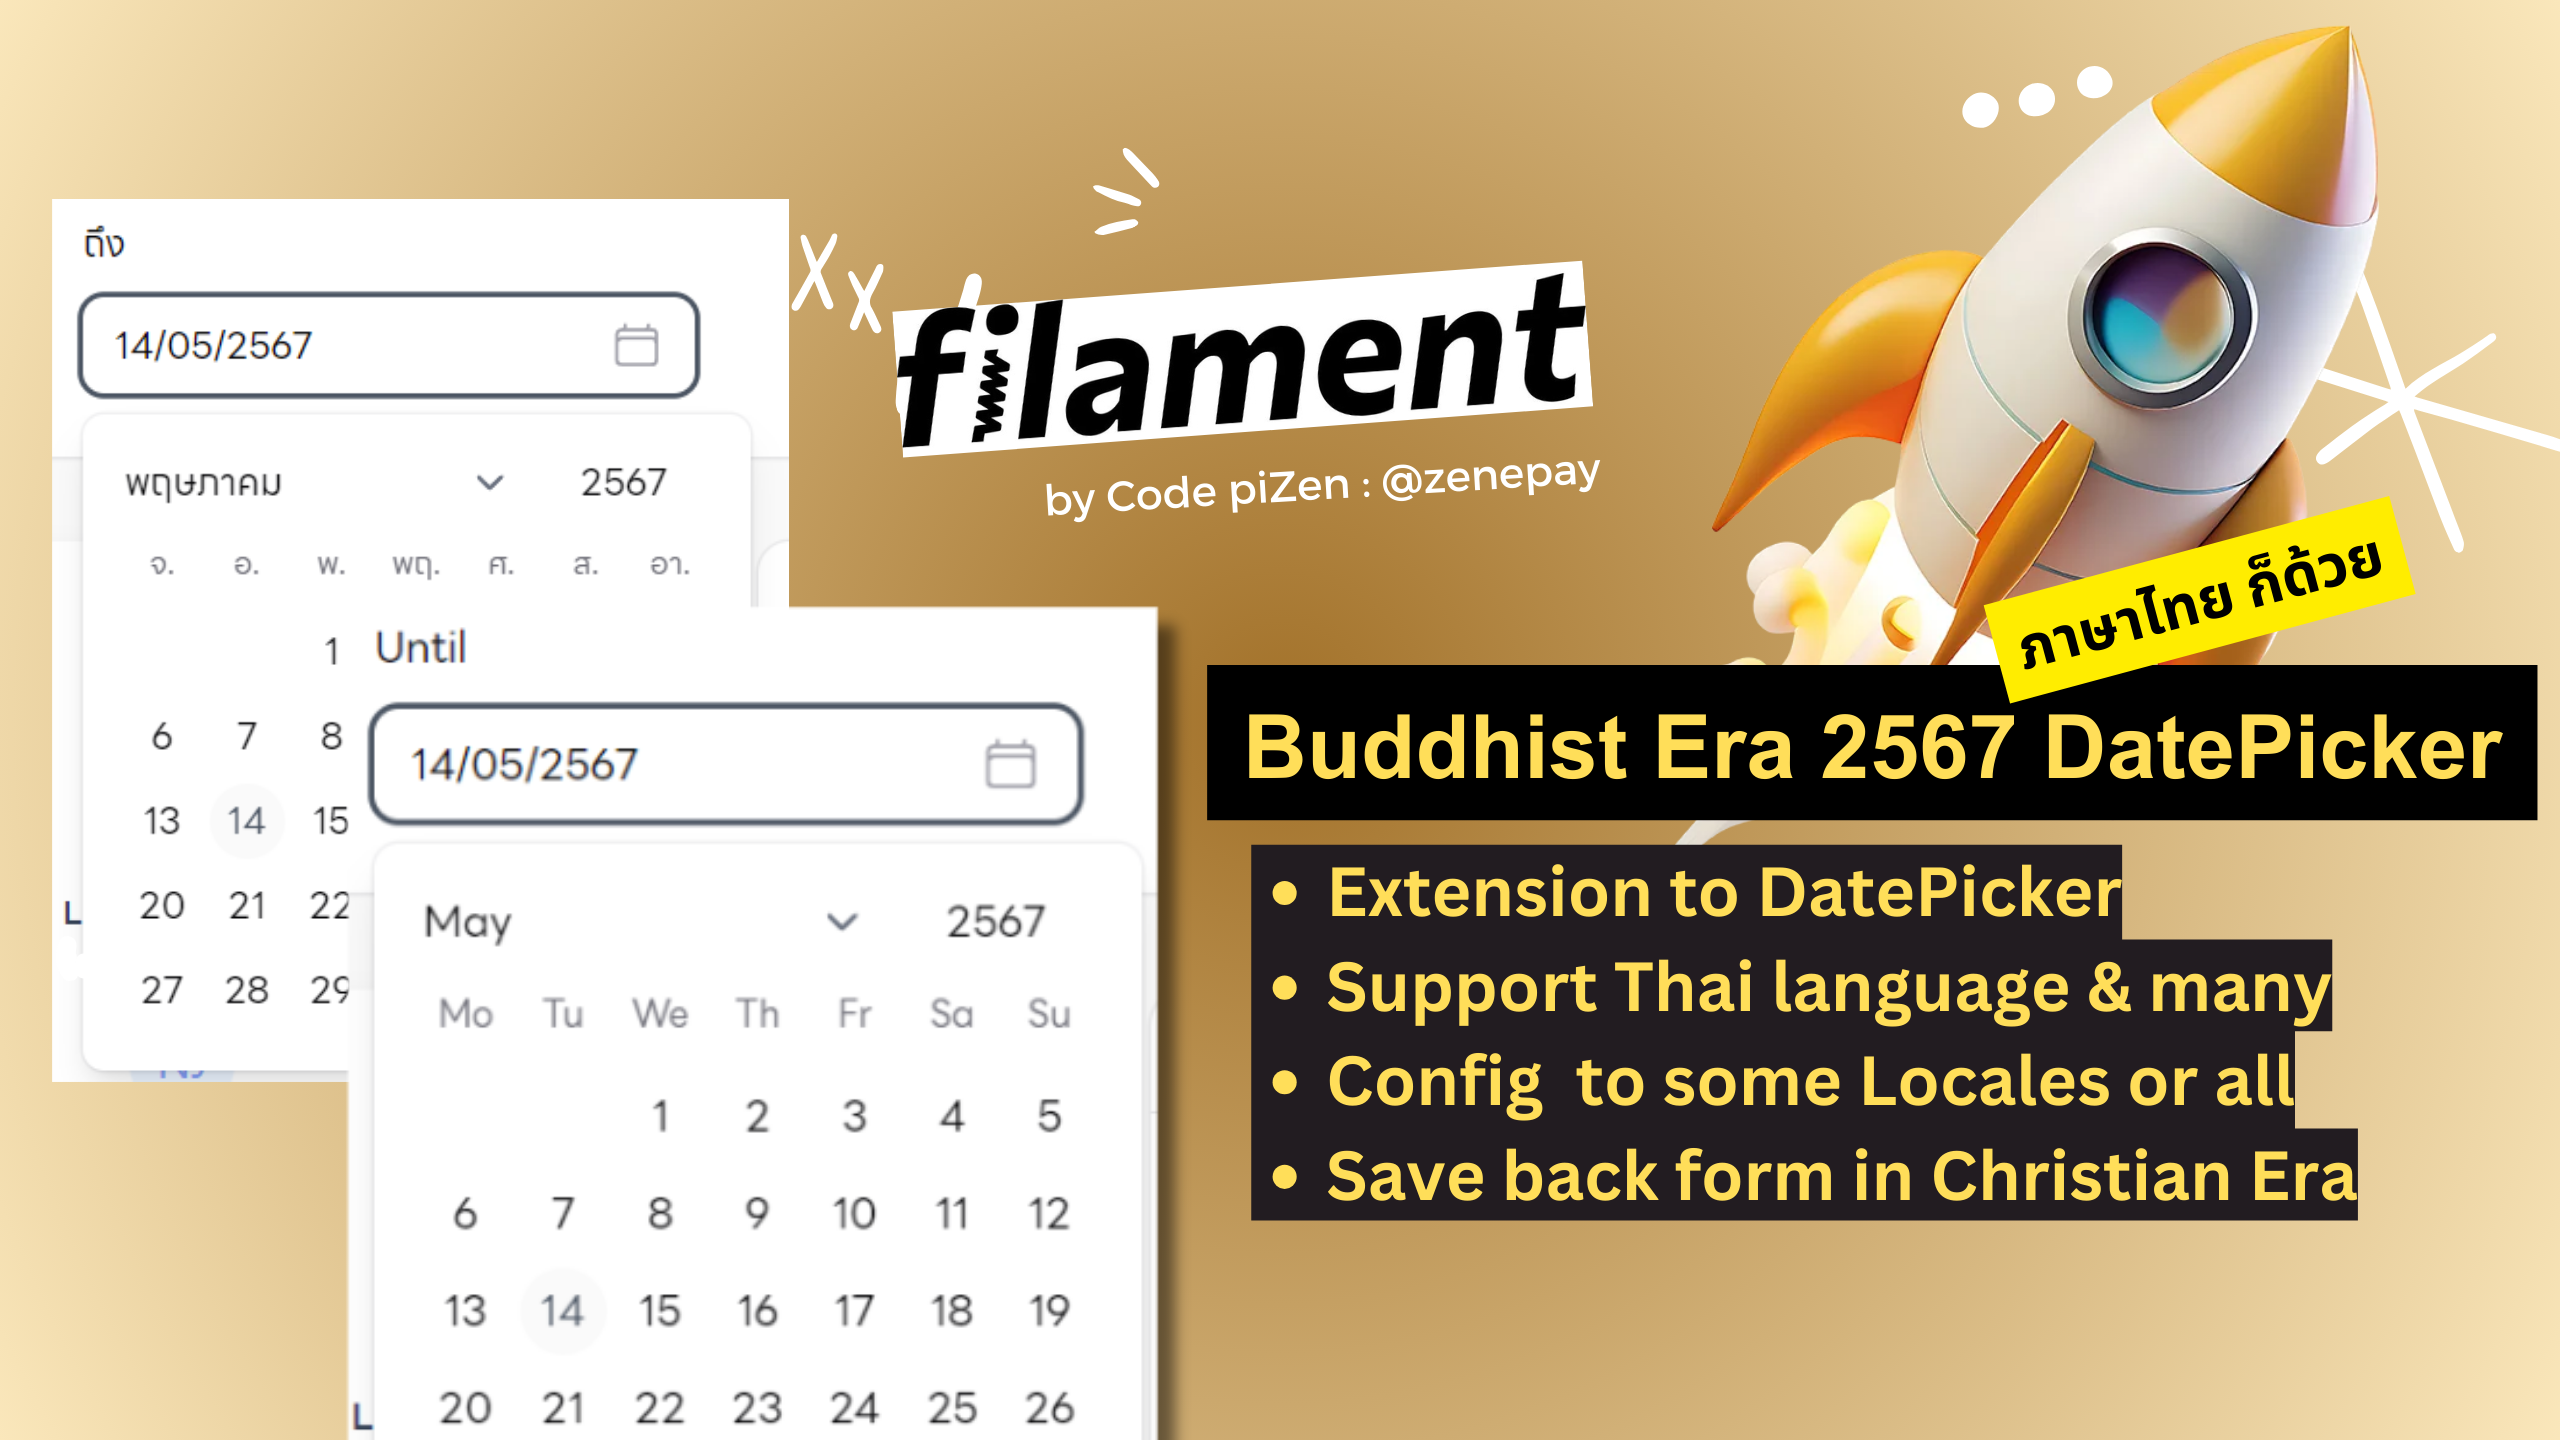
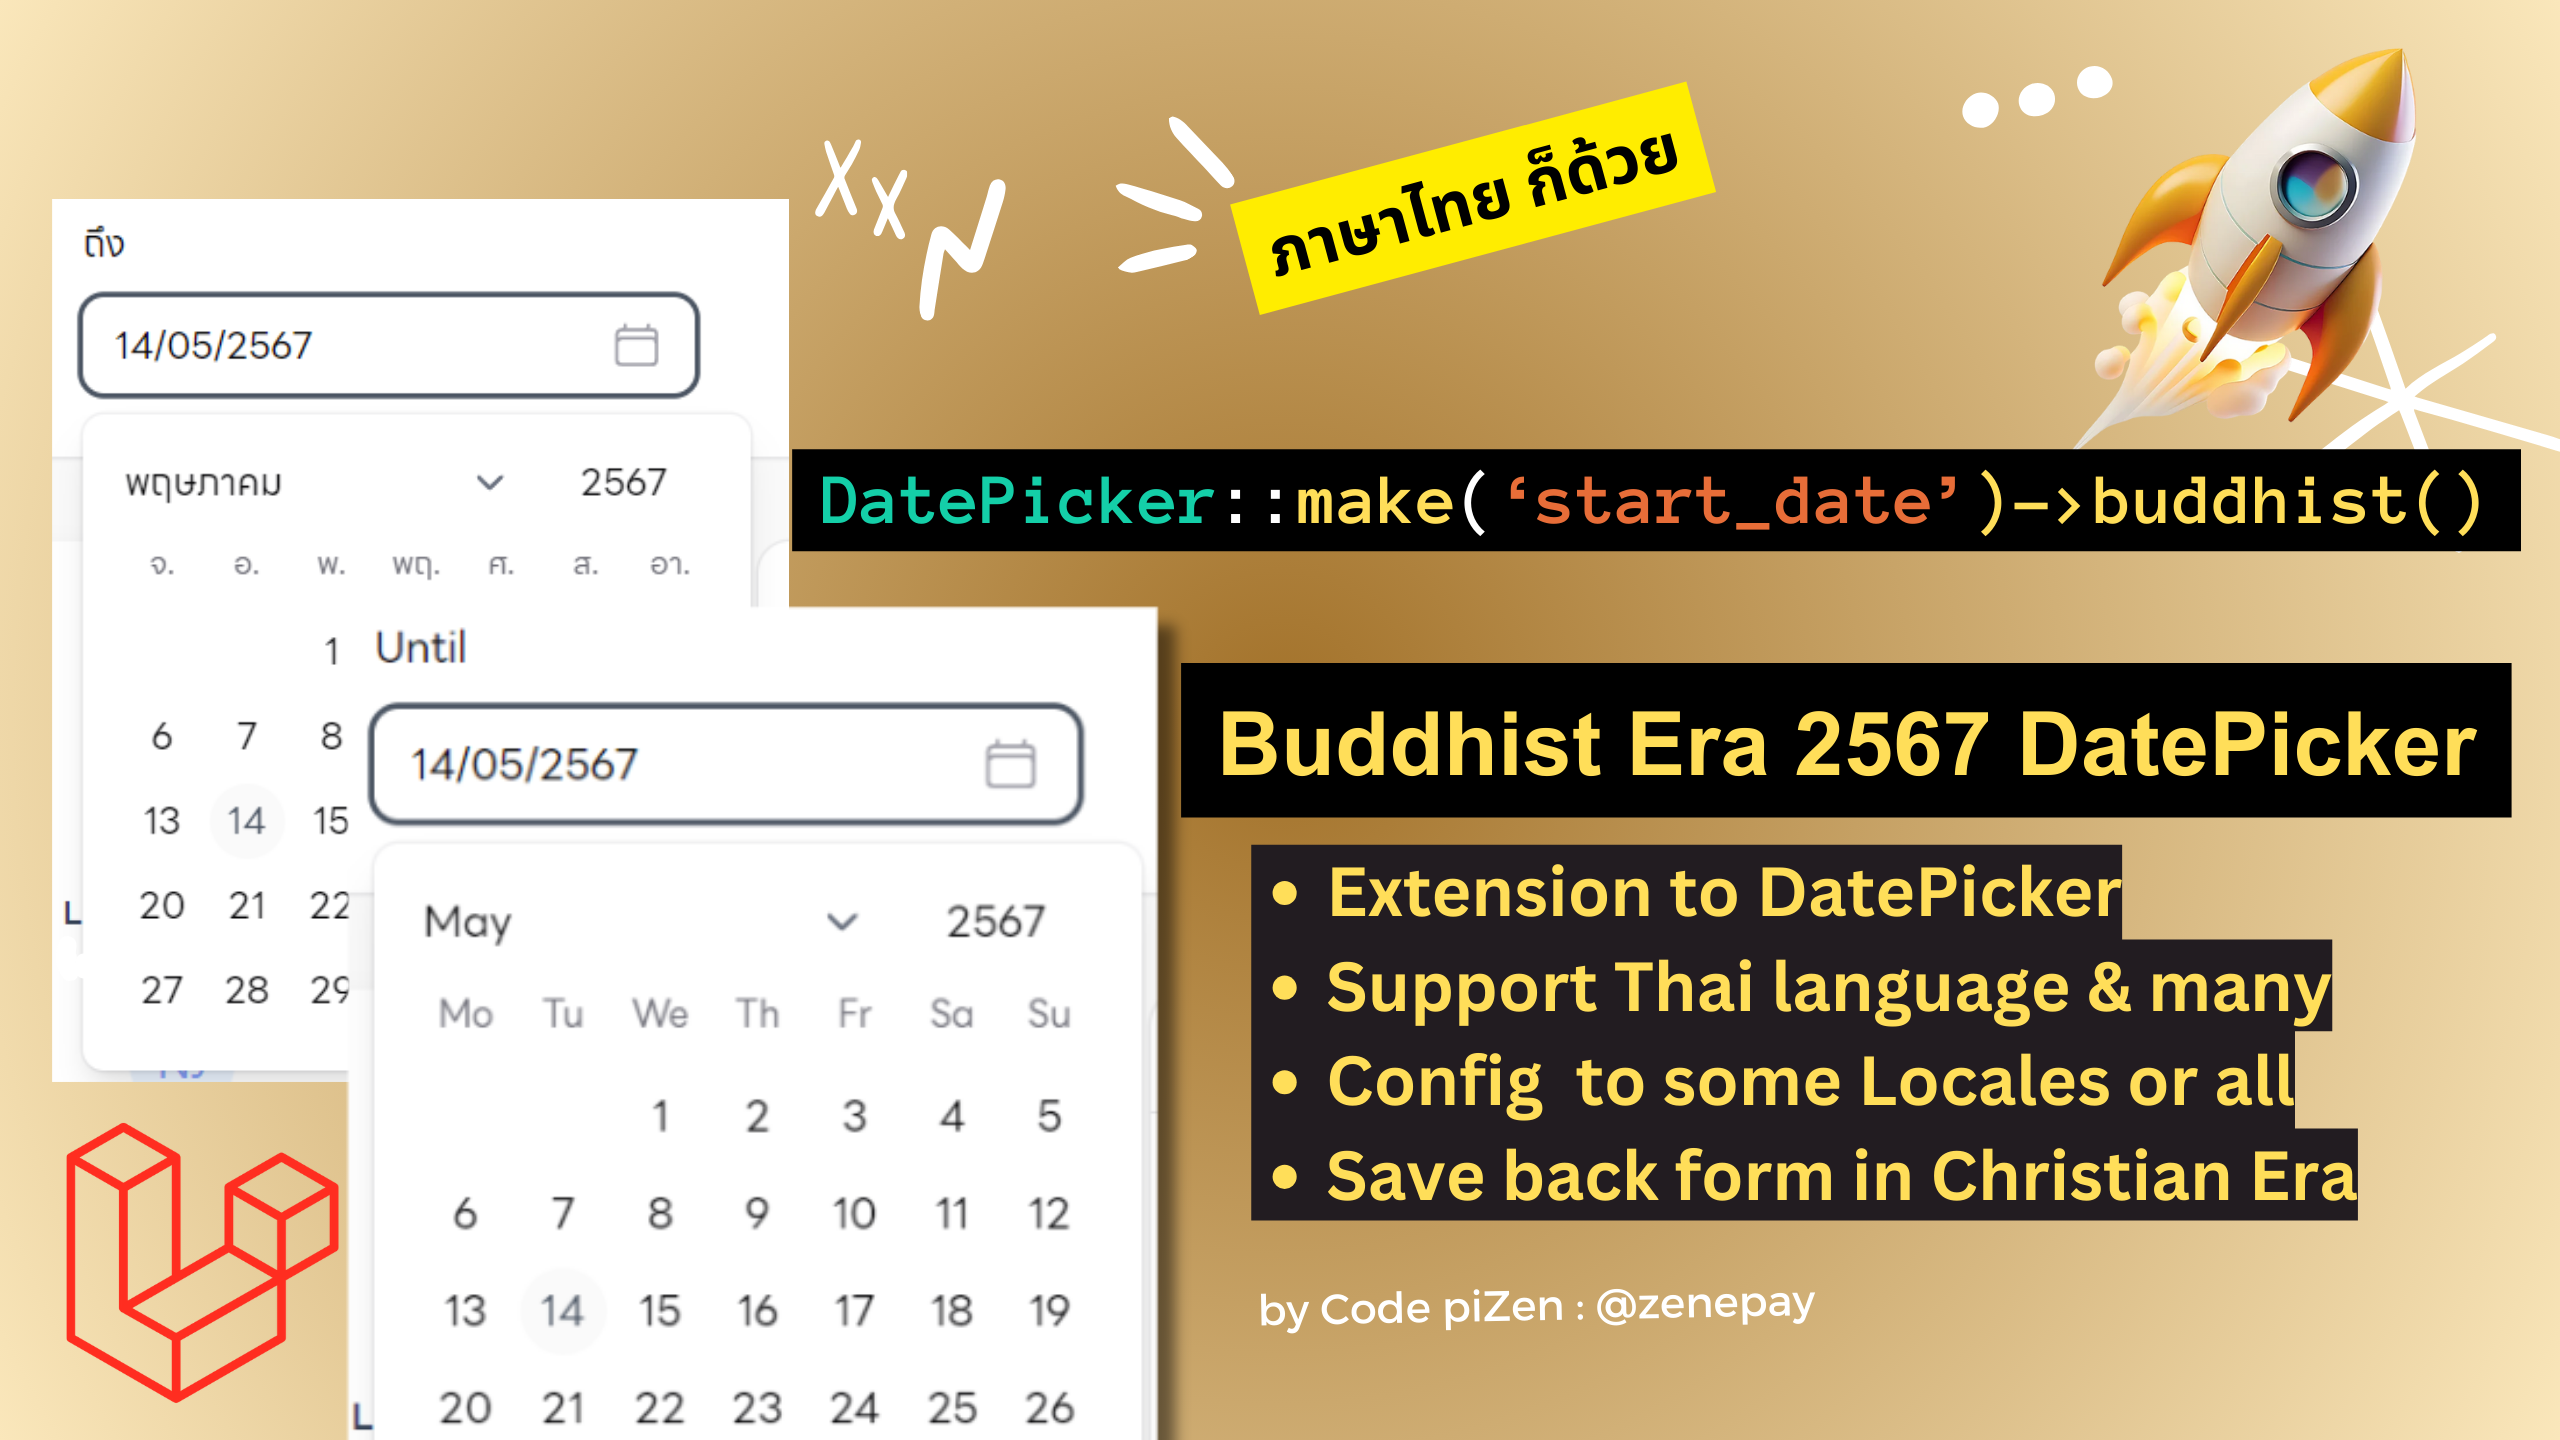
Add default date format for simple use of BuddhistDatePicker class

Changed region(s): [[0.3125, 0.0, 1.0, 0.5938], [0.0, 0.7812, 0.1562, 0.9688], [0.5, 0.875, 0.7188, 0.9375]]

diff --git a/src/BuddhistDatePickerServiceProvider.php b/src/BuddhistDatePickerServiceProvider.php
@@ -15,6 +15,7 @@ class BuddhistDatePickerServiceProvider extends PackageServiceProvider
 
     public static string $viewNamespace = 'filament-buddisht-date-picker';
 
+
     /*
          * This class is a Package Service Provider
          *
@@ -43,6 +44,7 @@ class BuddhistDatePickerServiceProvider extends PackageServiceProvider
         DatePicker::macro('buddhist', function (bool|int|string|array $onlyLocales = [], bool $weekdaysMin = true,) {
             /** @var DatePicker $this */
             $this->native(false);
+            $this::$defaultDateTimeDisplayFormat = 'm/d/Y';
             $this->view = "filament-buddisht-date-picker::date-time-picker";
             $this->extraAttributes(['onlyLocales' => is_array($onlyLocales) ? implode(',', $onlyLocales) : (is_bool($onlyLocales) ? (int) $onlyLocales : $onlyLocales), 'weekdaysMin' => (int) $weekdaysMin]);
 
@@ -52,6 +54,7 @@ class BuddhistDatePickerServiceProvider extends PackageServiceProvider
         DateTimePicker::macro('buddhist', function (bool|int|string|array $onlyLocales = '', bool $weekdaysMin = false,) {
             /** @var DateTimePicker $this */
             $this->native(false);
+            $this::$defaultDateTimeDisplayFormat = 'm/d/Y';
             $this->view = "filament-buddisht-date-picker::date-time-picker";
             $this->extraAttributes(['onlyLocales' => is_array($onlyLocales) ? implode(',', $onlyLocales) : "$onlyLocales", 'weekdaysMin' => (int) $weekdaysMin]);
         });

diff --git a/src/BuddhistDatePicker.php b/src/BuddhistDatePicker.php
@@ -8,8 +8,13 @@ use Filament\Forms\Components\DateTimePicker;
 class BuddhistDatePicker extends DateTimePicker
 {
     protected string $view = 'filament-buddisht-date-picker::date-time-picker';
+
     private bool|string $onlyLocales = true;
+
     private bool $weekdaysMin = true;
+
+    public static string $defaultDateDisplayFormat = 'd/m/Y';
+
     public function hasTime(): bool
     {
         return false;
@@ -23,6 +28,7 @@ class BuddhistDatePicker extends DateTimePicker
             'weekdaysMin' => (int) $this->weekdaysMin,
             'onlyLocales' => (int) $this->onlyLocales
         ], true);
+        $this->suffixIcon('heroicon-o-calendar', isInline: true);
     }
 
     public function onlyLocales(array $onlyLocales = []): static
@@ -35,7 +41,6 @@ class BuddhistDatePicker extends DateTimePicker
     public function weekdaysMin(bool $weekdaysMin = true): static
     {
         $this->weekdaysMin = $weekdaysMin;
-        $onlyLocales = $this->onlyLocales;
         $this->extraAttributes(['weekdaysMin' => (int) $this->weekdaysMin, 'onlyLocales' => $this->onlyLocales], false);
         return $this;
     }

diff --git a/README.md b/README.md
@@ -57,13 +57,25 @@ DatePicker::make('start_at')->buddhist(onlyLocales:['th','en'],weekdaysMin:true)
 DatetimePicker::make('start_at')->buddhist(onlyLocales:['th','en'],weekdaysMin:true);
 ```
 You can also use this way
-```php
-// 
-use Zenepay\FilamentBuddhistDatePicker\BuddhistDatePicker;
-BuddhistDatePicker::make('start_date'),
-// or with options
-BuddhistDatePicker:make('birth_date')->onlyLocales(['th','en'])->weekdaysMin(false),
 
+```php
+use Zenepay\FilamentBuddhistDatePicker\BuddhistDatePicker;
+
+BuddhistDatePicker::make('start_date');
+BuddhistDatePicker::make('birth_date')->onlyLocales(['th','en'])->weekdaysMin(false);
+
+```
+
+Or make alias to DatePicker and replace use Filament\Forms\Components\DatePicker to use Zenepay\FilamentBuddhistDatePicker\BuddhistDatePicker as DatePicker
+```php
+//use Filament\Forms\Components\DatePicker -->
+use Zenepay\FilamentBuddhistDatePicker\BuddhistDatePicker as DatePicker;
+
+
+DatePicker::make('start_date');
+DatePicker::make('birth_date')->onlyLocales(['th','en'])->weekdaysMin(false);
+
+```
 
 ## Credits
 
@@ -130,7 +142,19 @@ DatetimePicker::make('start_at')->buddhist(onlyLocales:['th','en'],weekdaysMin:t
 use Zenepay\FilamentBuddhistDatePicker\BuddhistDatePicker;
 
 BuddhistDatePicker::make('start_date');
-BuddhistDatePicker:make('birth_date')->onlyLocales(['th','en'])->weekdaysMin(false);
+BuddhistDatePicker::make('birth_date')->onlyLocales(['th','en'])->weekdaysMin(false);
+
+```
+หรือเปลี่ยน การใช้ use Filament\Forms\Components\DatePicker เป็น ใช้ use Zenepay\FilamentBuddhistDatePicker\BuddhistDatePicker as DatePicker แทน
+เพื่อไม่ต้องไล่แก้ ใส่ buddhist() แต่ละ DatePicker component ในหน้านั้น
+
+```php
+//use Filament\Forms\Components\DatePicker -->
+use Zenepay\FilamentBuddhistDatePicker\BuddhistDatePicker as DatePicker;
+
+
+DatePicker::make('start_date');
+DatePicker::make('birth_date')->onlyLocales(['th','en'])->weekdaysMin(false);
 
 ```
 
